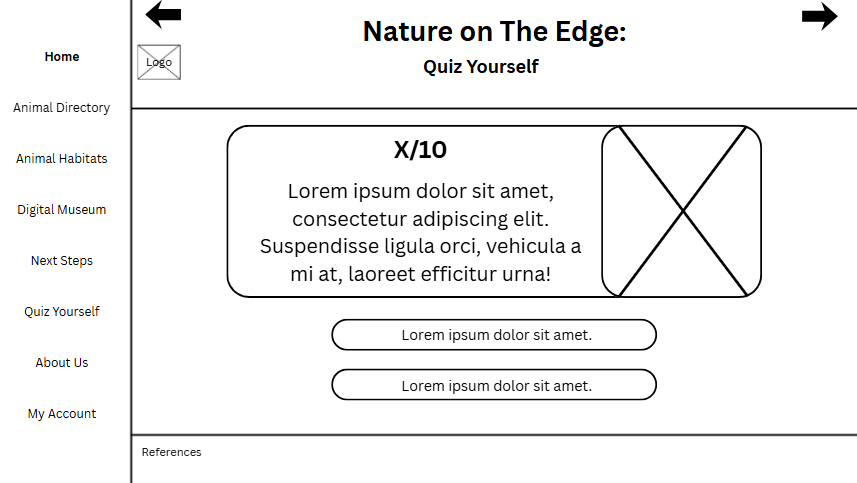
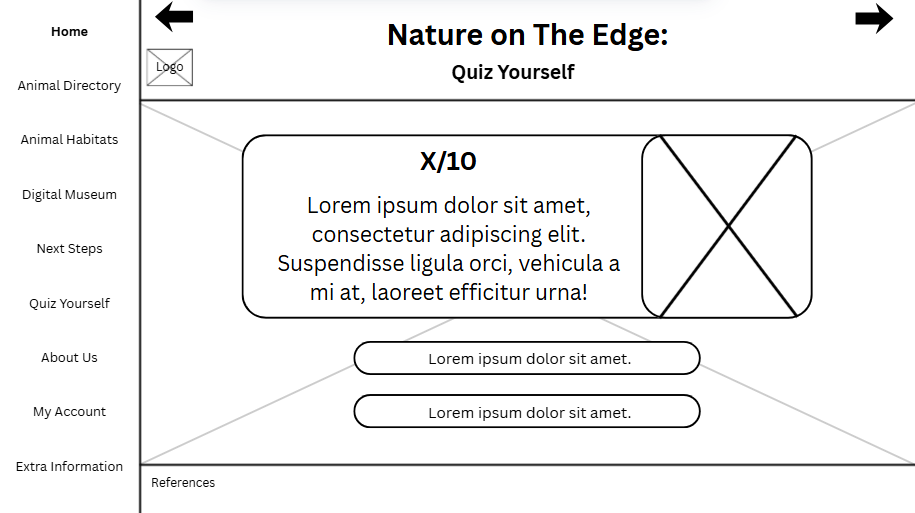
nineteenth commit

diff --git a/readme.md b/readme.md
@@ -75,10 +75,16 @@ This webpage will only unlock once the user has filled out the quiz at least onc
 ![about us](./readme%20assets/aboutus.jpg)
 
 ### Quiz Yourself! 
-![quiz yourself](./readme%20assets/quizquestion.png)
+![quiz form](./readme%20assets/quizform.png)
 
 ### Quiz Score
 ![quiz score](./readme%20assets/quizscore.png)
 
-### Log In / Sign Up
-![account](./readme%20assets/account.png)
+### Register Account
+![register](./readme%20assets/register.png)
+
+### Log In
+![login](./readme%20assets/login.png)
+
+### Extra Privileges!
+![reward](./readme%20assets/extrainfo.png)
